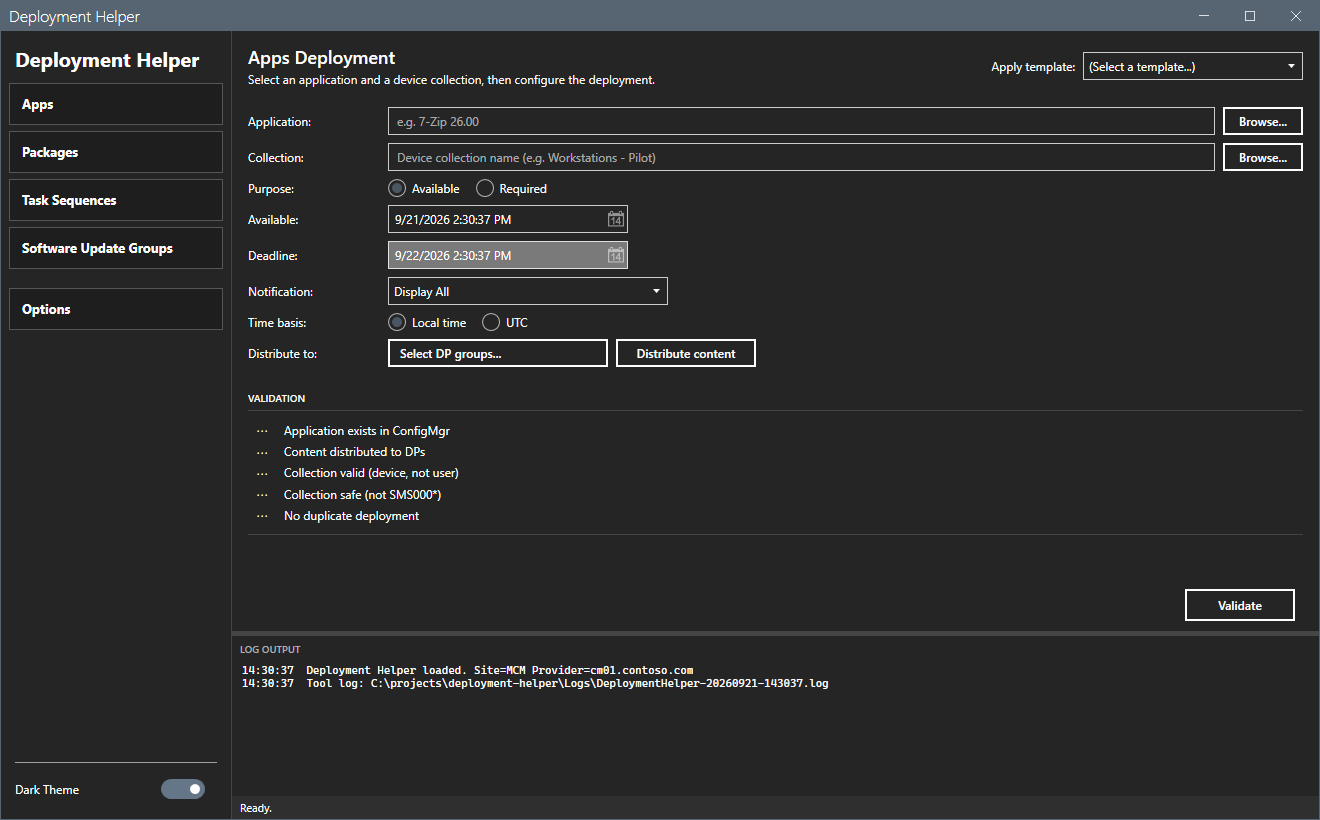
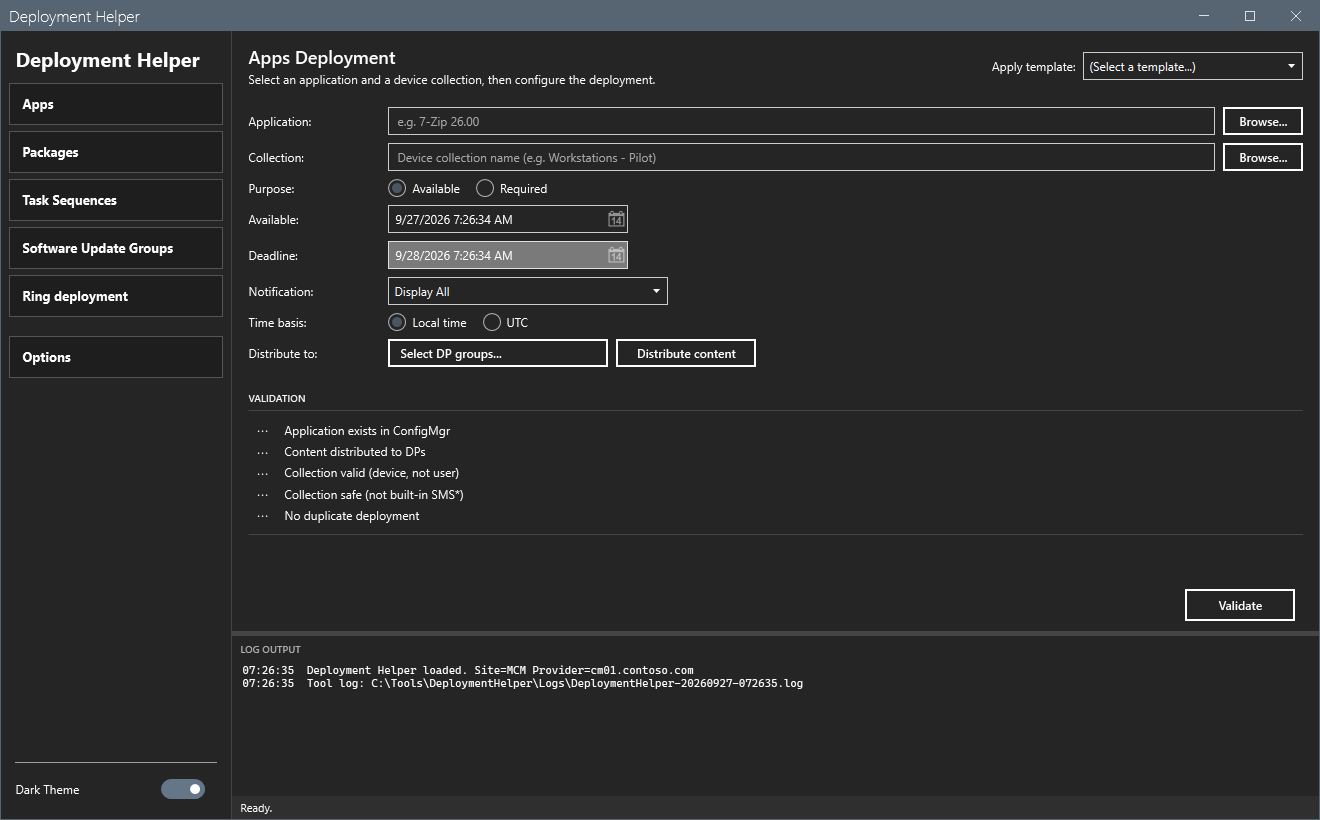
Show CI ID in the application browse list; drop the empty boot image column; fit the ring view grids; update the screenshots; 2026.09.27.0011

diff --git a/MainWindow.xaml b/MainWindow.xaml
@@ -492,42 +492,52 @@
                                       VerticalAlignment="Center" Margin="16,0,0,0"/>
                         </StackPanel>
 
-                        <TextBlock x:Name="txtRingPlanInfo" Grid.Row="5" Grid.Column="1" Grid.ColumnSpan="2" FontSize="11" TextWrapping="Wrap"
+                        <TextBlock x:Name="txtRingPlanInfo" Grid.Row="5" Grid.Column="1" Grid.ColumnSpan="2" FontSize="11" TextTrimming="CharacterEllipsis"
+                                   ToolTip="{Binding Text, RelativeSource={RelativeSource Self}}"
                                    Foreground="{DynamicResource MahApps.Brushes.Gray1}" Margin="0,0,0,4"/>
                     </Grid>
 
-                    <TextBlock Text="EXPANSION PREVIEW (EDITS APPLY TO THIS RUN ONLY)" Style="{StaticResource SectionHeaderStyle}" Margin="0,10,0,6"/>
-                    <DataGrid x:Name="dgRingPreview" Height="180"
+                    <DockPanel Margin="0,10,0,6" LastChildFill="False">
+                        <TextBlock DockPanel.Dock="Left" Text="EXPANSION PREVIEW (EDITS APPLY TO THIS RUN ONLY)" Style="{StaticResource SectionHeaderStyle}" Margin="0" VerticalAlignment="Center"/>
+                        <StackPanel DockPanel.Dock="Right" Orientation="Horizontal">
+                            <Button x:Name="btnRingPickCollection" Content="Set collection..." MinWidth="120" Height="32" Margin="0,0,8,0"
+                                    Style="{DynamicResource MahApps.Styles.Button.Square}"
+                                    Controls:ControlsHelper.ContentCharacterCasing="Normal"
+                                    ToolTip="Pick the device collection for the selected ring (this run only). Shift+click reloads the list."/>
+                            <Button x:Name="btnRingValidate" Content="Validate" MinWidth="110" Height="32" Margin="0,0,8,0"
+                                    Style="{DynamicResource MahApps.Styles.Button.Square}"
+                                    Controls:ControlsHelper.ContentCharacterCasing="Normal"
+                                    ToolTip="Run the five checks for every ring and the plan rules"/>
+                            <Button x:Name="btnRingCreate" Content="Create deployments" MinWidth="150" Height="32" Visibility="Collapsed"
+                                    Style="{DynamicResource MahApps.Styles.Button.Square.Accent}"
+                                    Controls:ControlsHelper.ContentCharacterCasing="Normal"
+                                    ToolTip="Create the ring deployments in Configuration Manager"/>
+                        </StackPanel>
+                    </DockPanel>
+                    <DataGrid x:Name="dgRingPreview" Height="132"
                               AutoGenerateColumns="False" CanUserAddRows="False" CanUserDeleteRows="False"
                               CanUserSortColumns="False" SelectionMode="Single" SelectionUnit="FullRow"
                               GridLinesVisibility="Horizontal" HeadersVisibility="Column" RowHeaderWidth="0"
                               ColumnHeaderHeight="28" FontSize="12">
                         <DataGrid.Columns>
                             <DataGridTextColumn Header="#" Binding="{Binding Index}" IsReadOnly="True" Width="32"/>
-                            <DataGridTextColumn Header="Ring" Binding="{Binding Name}" IsReadOnly="True" Width="100"/>
-                            <DataGridTextColumn Header="Collection ID" Binding="{Binding CollectionID, Mode=TwoWay}" Width="100"/>
+                            <DataGridTextColumn Header="Ring" Binding="{Binding Name}" IsReadOnly="True" Width="96"/>
+                            <DataGridTextColumn Header="Collection ID" Binding="{Binding CollectionID, Mode=TwoWay}" Width="118"/>
                             <DataGridTextColumn Header="Collection" Binding="{Binding CollectionName}" IsReadOnly="True" Width="*"/>
-                            <DataGridTextColumn Header="Purpose" Binding="{Binding Purpose}" IsReadOnly="True" Width="70"/>
+                            <DataGridTextColumn Header="Purpose" Binding="{Binding Purpose}" IsReadOnly="True" Width="86"/>
                             <DataGridTextColumn Header="Available" Binding="{Binding AvailableText, Mode=TwoWay}" Width="120"/>
                             <DataGridTextColumn Header="Deadline" Binding="{Binding DeadlineText, Mode=TwoWay}" Width="120"/>
-                            <DataGridTextColumn Header="Threshold" Binding="{Binding ThresholdText}" IsReadOnly="True" Width="70"/>
-                            <DataGridTextColumn Header="Checks" Binding="{Binding Checks}" IsReadOnly="True" Width="2*"/>
+                            <DataGridTextColumn Header="Threshold" Binding="{Binding ThresholdText}" IsReadOnly="True" Width="96"/>
+                            <DataGridTextColumn Header="Checks" Binding="{Binding Checks}" IsReadOnly="True" Width="1.5*">
+                                <DataGridTextColumn.ElementStyle>
+                                    <Style TargetType="TextBlock">
+                                        <Setter Property="TextTrimming" Value="CharacterEllipsis"/>
+                                        <Setter Property="ToolTip" Value="{Binding Checks}"/>
+                                    </Style>
+                                </DataGridTextColumn.ElementStyle>
+                            </DataGridTextColumn>
                         </DataGrid.Columns>
                     </DataGrid>
-                    <StackPanel Orientation="Horizontal" HorizontalAlignment="Right" Margin="0,8,0,0">
-                        <Button x:Name="btnRingPickCollection" Content="Set collection..." MinWidth="120" Height="32" Margin="0,0,8,0"
-                                Style="{DynamicResource MahApps.Styles.Button.Square}"
-                                Controls:ControlsHelper.ContentCharacterCasing="Normal"
-                                ToolTip="Pick the device collection for the selected ring (this run only). Shift+click reloads the list."/>
-                        <Button x:Name="btnRingValidate" Content="Validate" MinWidth="110" Height="32" Margin="0,0,8,0"
-                                Style="{DynamicResource MahApps.Styles.Button.Square}"
-                                Controls:ControlsHelper.ContentCharacterCasing="Normal"
-                                ToolTip="Run the five checks for every ring and the plan rules"/>
-                        <Button x:Name="btnRingCreate" Content="Create deployments" MinWidth="150" Height="32" Visibility="Collapsed"
-                                Style="{DynamicResource MahApps.Styles.Button.Square.Accent}"
-                                Controls:ControlsHelper.ContentCharacterCasing="Normal"
-                                ToolTip="Create the ring deployments in Configuration Manager"/>
-                    </StackPanel>
 
                     <DockPanel Margin="0,14,0,6" LastChildFill="False">
                         <TextBlock x:Name="lblRingRuns" DockPanel.Dock="Left" Text="OPEN RUNS" Style="{StaticResource SectionHeaderStyle}" Margin="0" VerticalAlignment="Center"/>
@@ -538,23 +548,37 @@
                         <CheckBox x:Name="chkRingShowClosed" DockPanel.Dock="Right" Content="Show closed runs" FontSize="12"
                                   VerticalAlignment="Center" Margin="0,0,12,0"/>
                     </DockPanel>
-                    <DataGrid x:Name="dgRingRuns" Height="190"
+                    <DataGrid x:Name="dgRingRuns" Height="160"
                               AutoGenerateColumns="False" CanUserAddRows="False" CanUserDeleteRows="False" IsReadOnly="True"
                               SelectionMode="Single" SelectionUnit="FullRow"
                               GridLinesVisibility="Horizontal" HeadersVisibility="Column" RowHeaderWidth="0"
                               ColumnHeaderHeight="28" FontSize="12">
                         <DataGrid.Columns>
-                            <DataGridTextColumn Header="Run" Binding="{Binding RunLabel}" Width="2*"/>
+                            <DataGridTextColumn Header="Run" Binding="{Binding RunLabel}" Width="3*">
+                                <DataGridTextColumn.ElementStyle>
+                                    <Style TargetType="TextBlock">
+                                        <Setter Property="TextTrimming" Value="CharacterEllipsis"/>
+                                        <Setter Property="ToolTip" Value="{Binding RunLabel}"/>
+                                    </Style>
+                                </DataGridTextColumn.ElementStyle>
+                            </DataGridTextColumn>
                             <DataGridTextColumn Header="#" Binding="{Binding Index}" Width="32"/>
                             <DataGridTextColumn Header="Ring" Binding="{Binding Name}" Width="90"/>
-                            <DataGridTextColumn Header="Collection" Binding="{Binding CollectionID}" Width="90"/>
-                            <DataGridTextColumn Header="Status" Binding="{Binding Status}" Width="70"/>
+                            <DataGridTextColumn Header="Collection" Binding="{Binding CollectionID}" Width="104"/>
+                            <DataGridTextColumn Header="Status" Binding="{Binding Status}" Width="80"/>
                             <DataGridTextColumn Header="Deadline" Binding="{Binding DeadlineText}" Width="115"/>
-                            <DataGridTextColumn Header="Targeted" Binding="{Binding Targeted}" Width="64"/>
-                            <DataGridTextColumn Header="Success" Binding="{Binding Success}" Width="60"/>
-                            <DataGridTextColumn Header="Error" Binding="{Binding Errors}" Width="50"/>
-                            <DataGridTextColumn Header="In progress" Binding="{Binding InProgress}" Width="76"/>
-                            <DataGridTextColumn Header="Note" Binding="{Binding Note}" Width="3*"/>
+                            <DataGridTextColumn Header="Targeted" Binding="{Binding Targeted}" Width="90"/>
+                            <DataGridTextColumn Header="Success" Binding="{Binding Success}" Width="82"/>
+                            <DataGridTextColumn Header="Error" Binding="{Binding Errors}" Width="66"/>
+                            <DataGridTextColumn Header="In progress" Binding="{Binding InProgress}" Width="110"/>
+                            <DataGridTextColumn Header="Note" Binding="{Binding Note}" Width="2*">
+                                <DataGridTextColumn.ElementStyle>
+                                    <Style TargetType="TextBlock">
+                                        <Setter Property="TextTrimming" Value="CharacterEllipsis"/>
+                                        <Setter Property="ToolTip" Value="{Binding Note}"/>
+                                    </Style>
+                                </DataGridTextColumn.ElementStyle>
+                            </DataGridTextColumn>
                             <DataGridTemplateColumn Header="" Width="90">
                                 <DataGridTemplateColumn.CellTemplate>
                                     <DataTemplate>

diff --git a/README.md b/README.md
@@ -52,6 +52,8 @@ Edit, duplicate, or delete via **Options > Templates**. Each template is a simpl
 
 A ring plan is a named, ordered list of rings in `Rings\<plan>.json`. Each ring names one device collection by CollectionID, a purpose, and day offsets from the plan start. A ring run makes one ordinary Configuration Manager deployment per ring. The site does not know that the deployments form a sequence; only the tool's files record it.
 
+![Ring deployment](screenshots/rings-dark.png)
+
 On first run, two plans are written to `Rings\`: **Workstation-Rings** (QA, Pilot, Prod 1, Prod Final) and **Server-Rings** (Test, Prod). The seed plans name no collection. A plan with an empty ring target does not run.
 
 To run a plan:

diff --git a/CHANGELOG.md b/CHANGELOG.md
@@ -1,5 +1,21 @@
 # Changelog
 
+## [2026.09.27.0011] - 2026-09-27
+
+## The ring view shows the preview and open runs together at 1320 x 820
+
+### Fixed
+
+- Show the CI ID in the application browse list instead of an always-empty package ID.
+- Remove the always-empty boot image column from the task sequence browse list.
+- Widen the ring grid columns so no header is cut off.
+- Show full run labels, notes, and checks as tooltips in the ring grids.
+
+### Changed
+
+- Move the ring preview buttons to the preview header line.
+- Update the README screenshots and add one of the ring view.
+
 ## [2026.09.26.0010] - 2026-09-26
 
 ## One confirmation creates the deployments for all 4 rings of a plan
